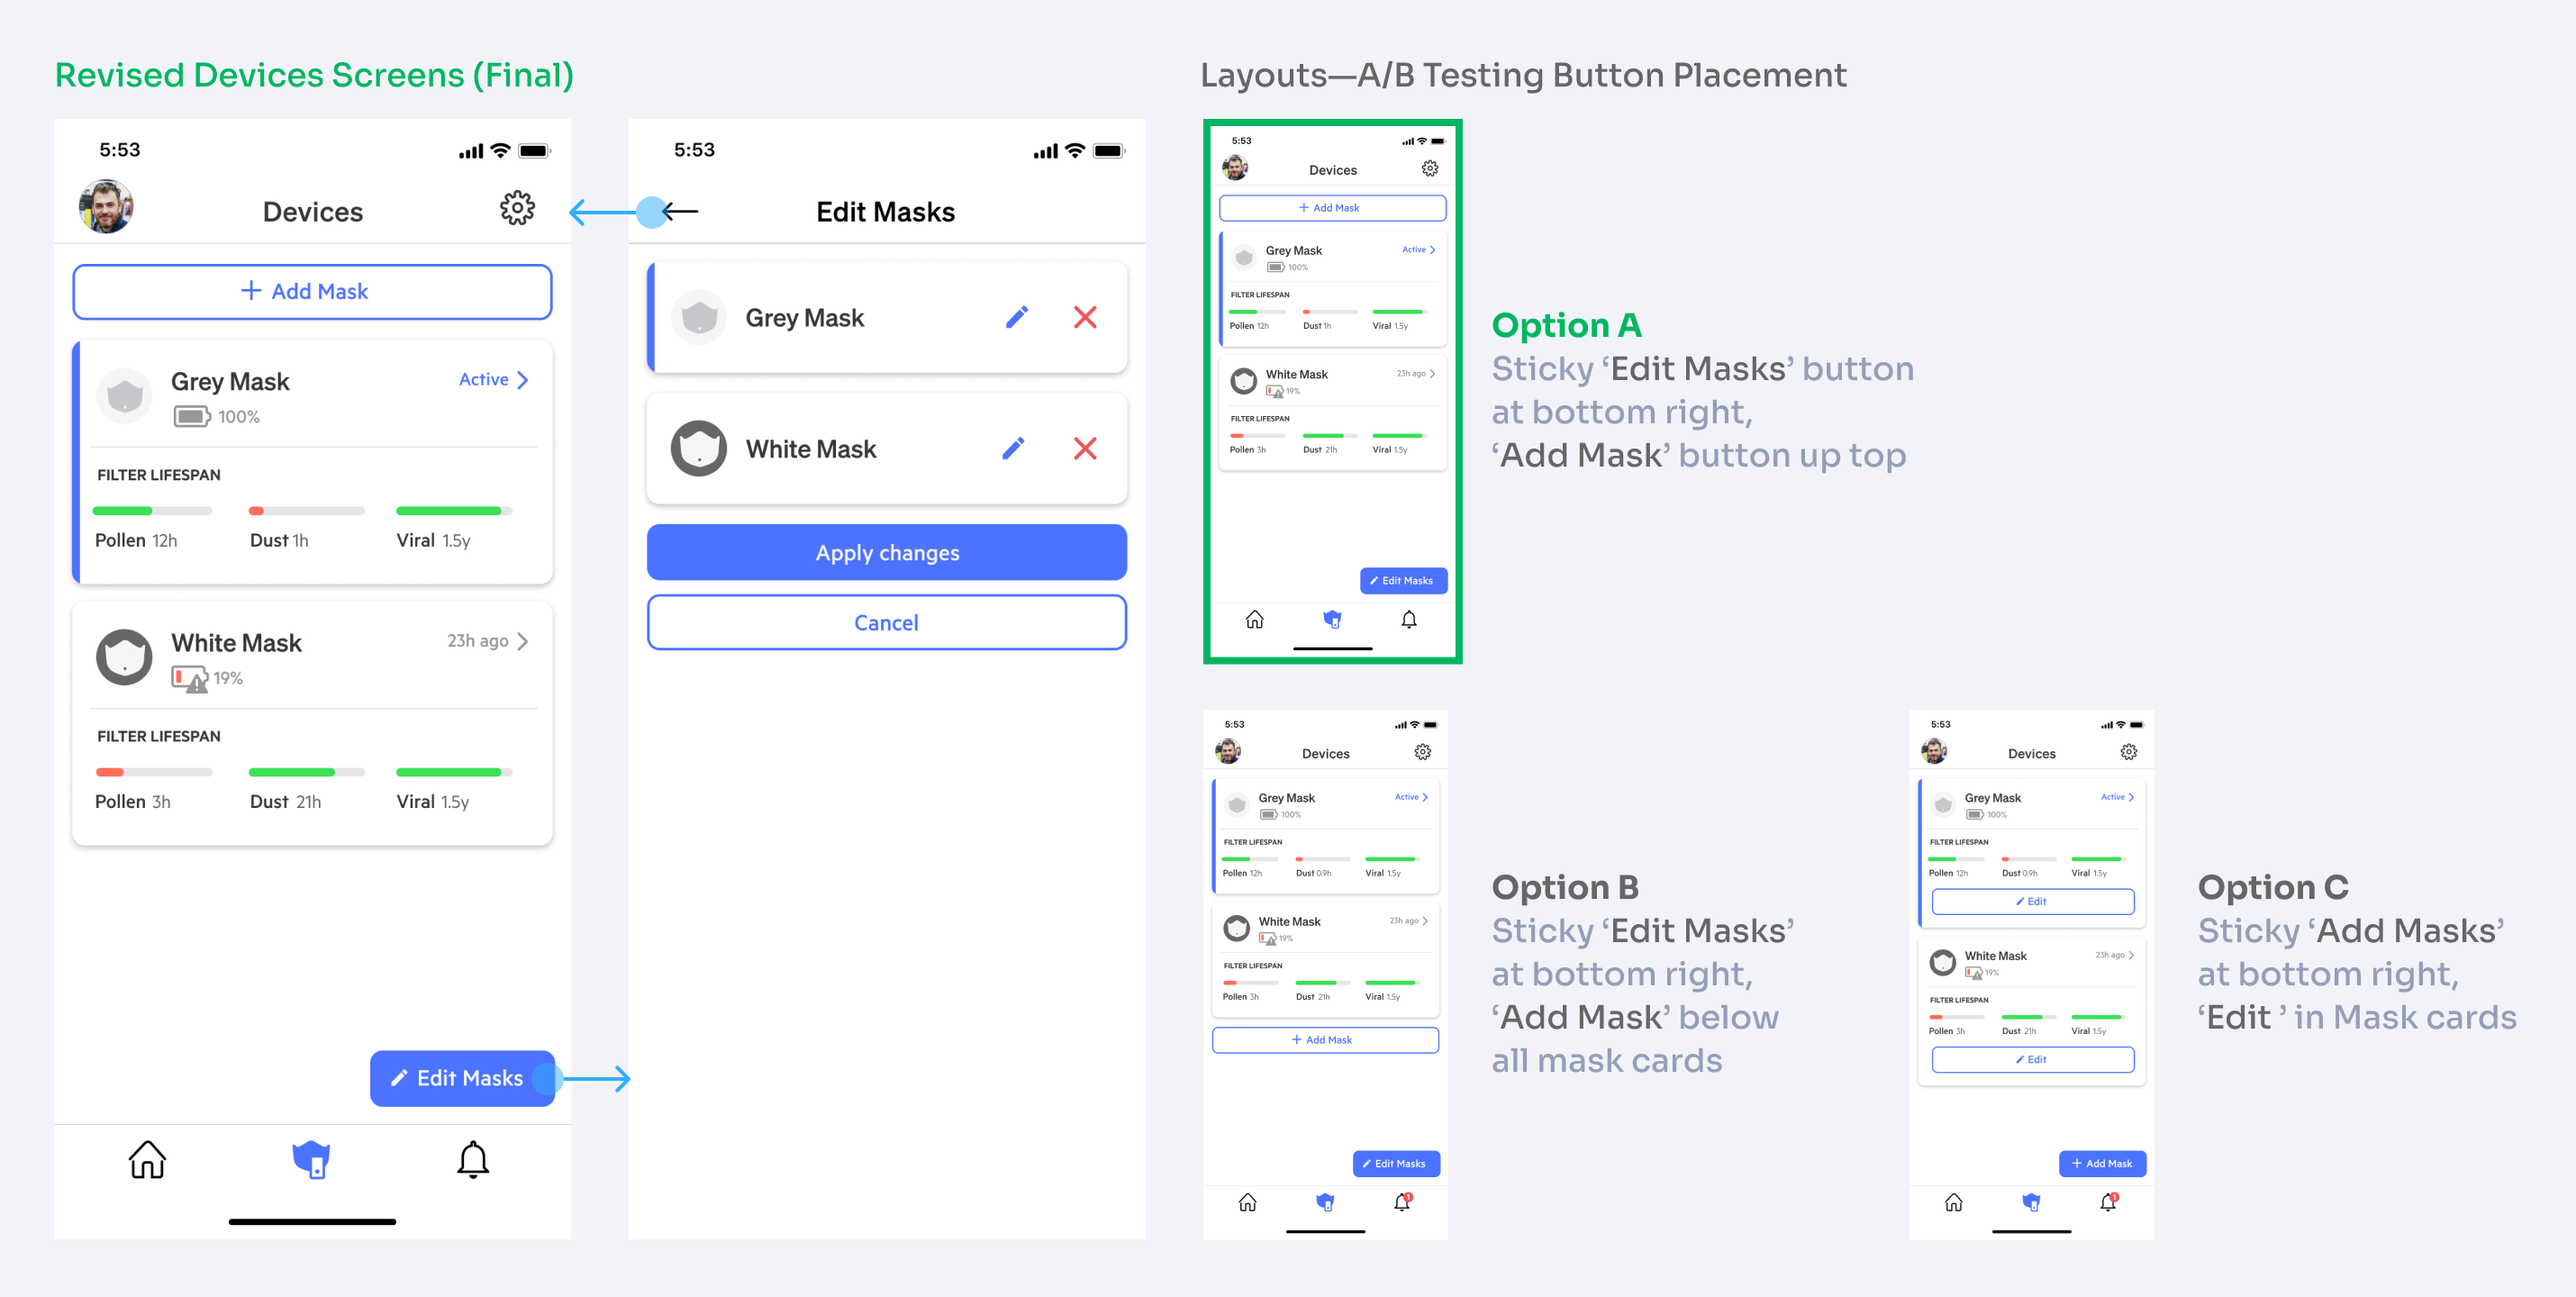
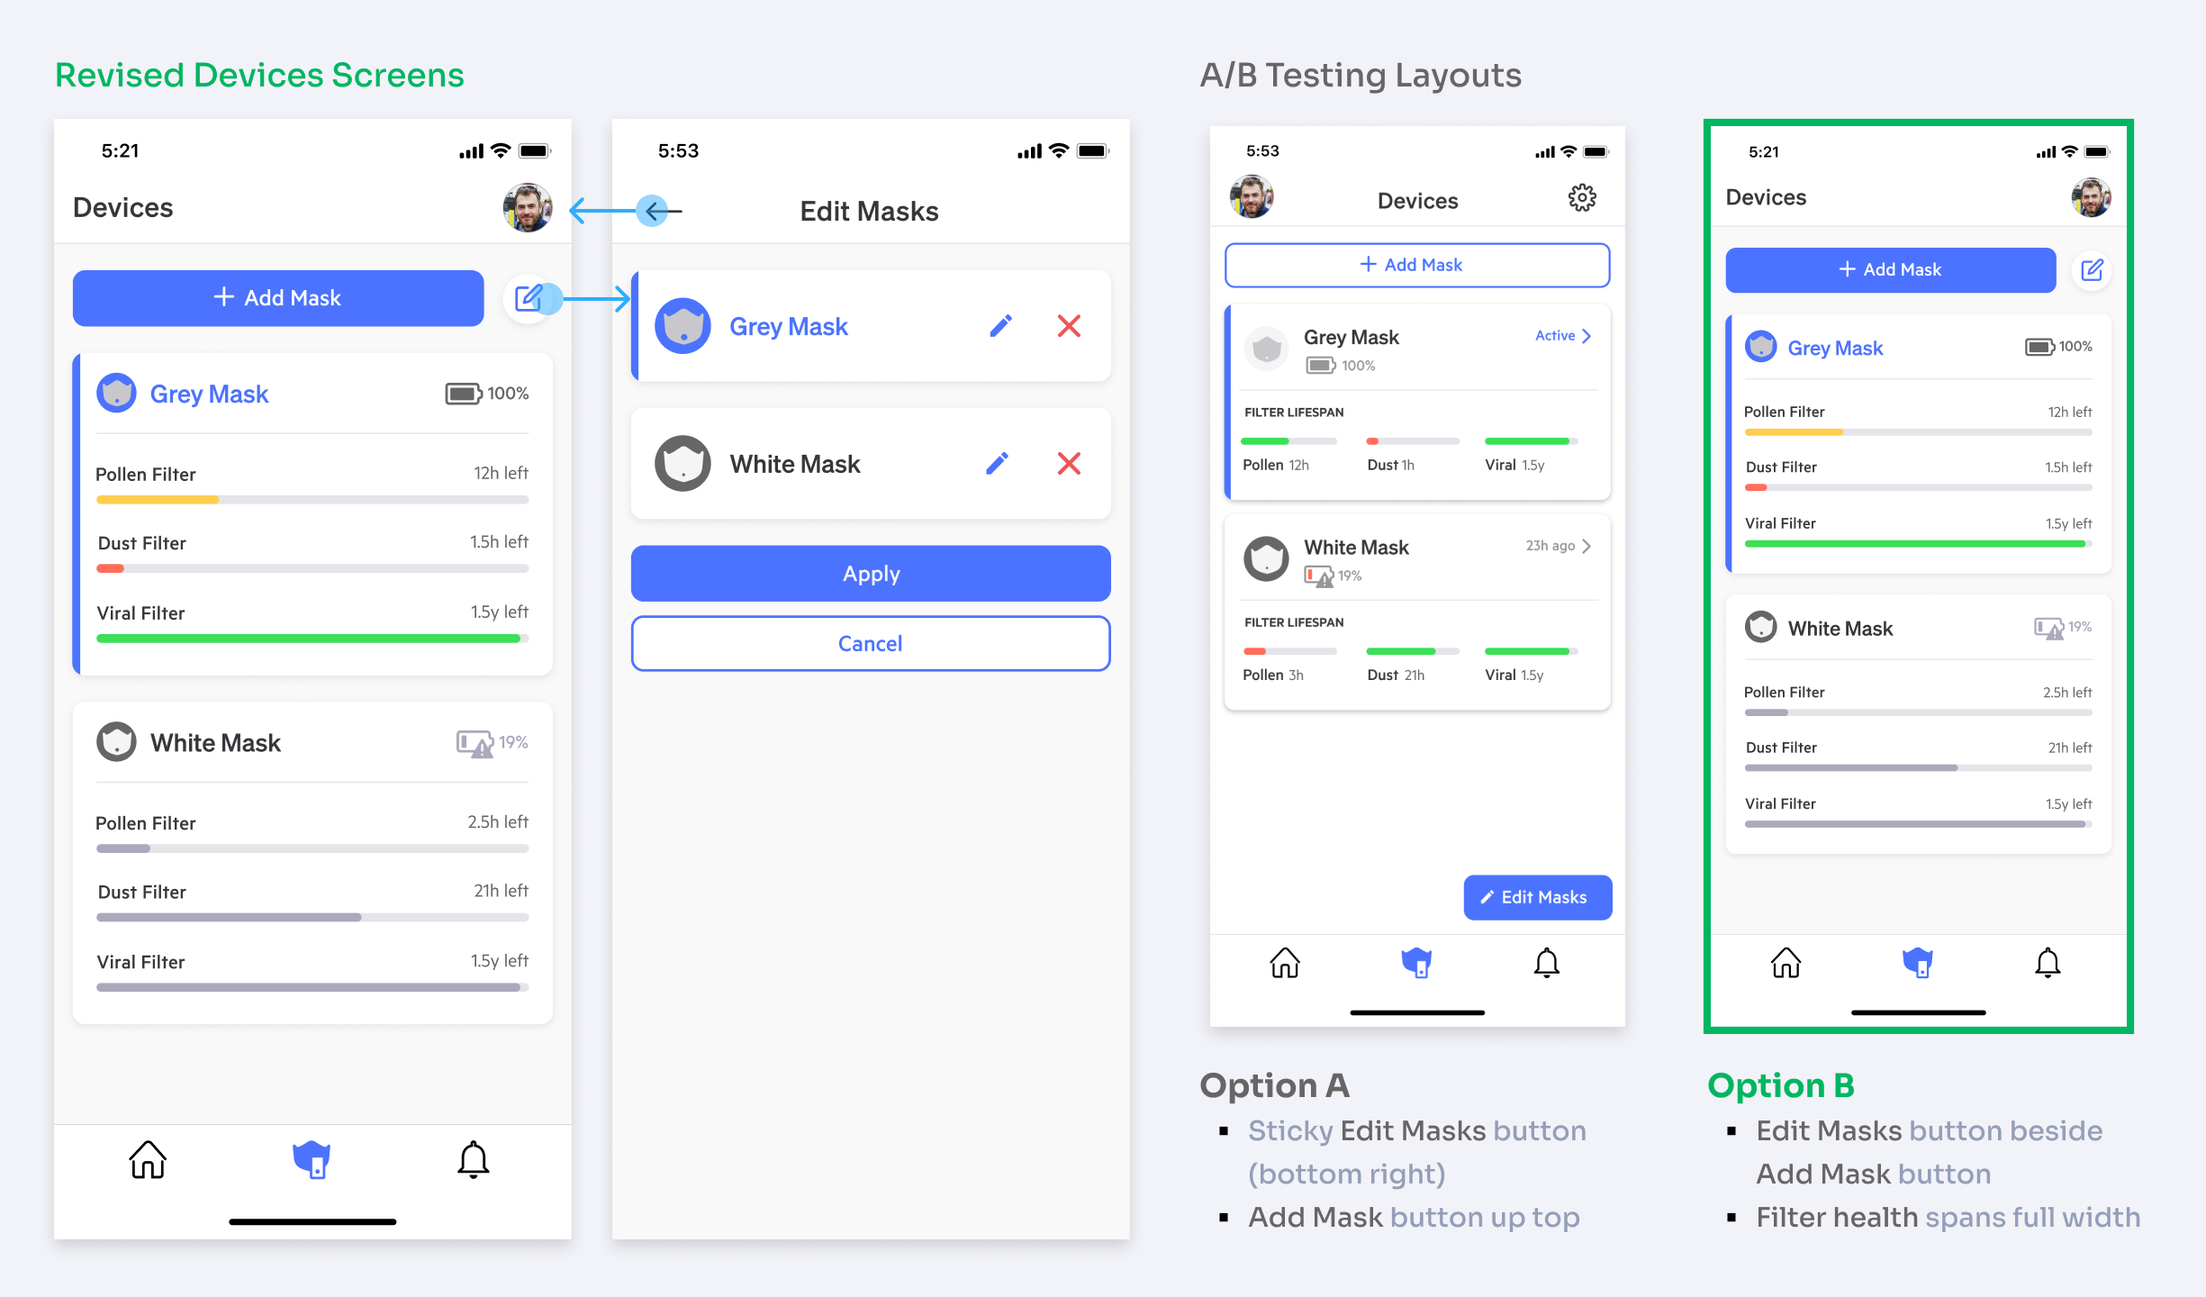
n3w

diff --git a/index.html b/index.html
@@ -166,26 +166,6 @@
             </a>
           </article>
 
-          <!-- Kumo Smart Mask -->
-          <article>
-            <a class="projectSingle" href="https://www.notion.so/Kumo-Smart-Mask-a6ab4a3a38184989886887746a99f04e"
-              target="_blank">
-              <img class="projectCover" src="./img/home-cover-Kumo-Mask.jpg" loading="lazy" alt="Kumo Smart Mask">
-              <div class="sec">
-                <h2 class="projectTitle">Kumo Smart Mask <span class="projectArrow">→</span></h2>
-                <p class="projectDescription">Reimagining a more inclusive mask experience</p>
-                <!-- <p class="awardText">
-                <img class="adobeIcon" src="./img/adobe.svg" loading="lazy" alt="Adobe">
-                Adobe Jam 1st Place
-              </p> -->
-                <div class="projectType-Group">
-                  <span class="projectType">Product Design</span>
-                  <span class="projectType">Industrial Design</span>
-                </div>
-              </div>
-            </a>
-          </article>
-
           <!-- Kumo Companion App -->
           <article>
             <a class="projectSingle" href="kumoApp2.html">
@@ -202,6 +182,26 @@
                   <span class="projectType">Research</span>
                   <span class="projectType">Prototyping</span>
                   <span class="projectType">Testing</span>
+                </div>
+              </div>
+            </a>
+          </article>
+
+          <!-- Kumo Smart Mask -->
+          <article>
+            <a class="projectSingle" href="https://www.notion.so/Kumo-Smart-Mask-a6ab4a3a38184989886887746a99f04e"
+              target="_blank">
+              <img class="projectCover" src="./img/home-cover-Kumo-Mask.jpg" loading="lazy" alt="Kumo Smart Mask">
+              <div class="sec">
+                <h2 class="projectTitle">Kumo Smart Mask <span class="projectArrow">→</span></h2>
+                <p class="projectDescription">Reimagining a more inclusive mask experience</p>
+                <!-- <p class="awardText">
+                <img class="adobeIcon" src="./img/adobe.svg" loading="lazy" alt="Adobe">
+                Adobe Jam 1st Place
+              </p> -->
+                <div class="projectType-Group">
+                  <span class="projectType">Product Design</span>
+                  <span class="projectType">Industrial Design</span>
                 </div>
               </div>
             </a>

diff --git a/kumoApp2.html b/kumoApp2.html
@@ -508,10 +508,9 @@
                 simplified
                 to 4 core
                 features:<br>
-                • <span class="bodyTypeBold">Home</span> (housing data reports of various types)<br>
-                • <span class="bodyTypeBold">Device management</span> (add, edit, delete, masks)<br>
+                • <span class="bodyTypeBold">Home</span> (housing various data types)<br>
+                • <span class="bodyTypeBold">Device management</span> (add, rename, delete masks)<br>
                 • <span class="bodyTypeBold">Notifications</span><br>
-                • <span class="bodyTypeBold">Settings</span><br>
               </p>
           </div>
           <img class="caseStudyImg" src="img/kumoApp/Kumo_Info Arch_Updated v3.png" loading="lazy"
@@ -569,11 +568,11 @@
               <p class="bodyType marginS--top">
                 <span class="bodyTypeBold">Action:</span> I added <span class="bodyTypeBold-Green">mask naming</span> to
                 the Onboarding flow. I also added an Edit
-                Masks button to the Devices screen—3 versions were made and A/B tested. <span
+                Masks button to the Devices screen—2 layouts were made and A/B tested. <span
                   class="bodyTypeBold-Green">Option
-                  A</span> was chosen because
-                the Edit Masks button would never conflict with the Add Mask button if there were more masks extending
-                past the scroll.
+                  B</span> was chosen because
+                users thought extending the health bars end to end across the full screen width made for an easier
+                viewing experience.
               </p>
             </div>
             <div>

diff --git a/fbintern.html b/fbintern.html
@@ -103,12 +103,13 @@
             <div class="caseStudyDetailsLeft">
               <h2 class="h2-caseStudy-DM">What Did I Work On?</h2>
               <p class="bodyType-DM">
-                Over the course of summer 2020, I designed a zero-to-one feature for Facebook’s Branded Content
-                products. At a high level, this project involved me scoping out a feasible solution for the summer, that
+                In summer 2020, I designed a 0-to-1 feature for Facebook’s Branded Content
+                products. This project involved me scoping out a feasible solution for the summer, that
                 was still capable of bringing value to the team roadmap in the future. Also apart of this experience was
                 heavy, cross-functional collaboration which situated me to seek alignment from teammates and partners in
                 the larger org, pursue breadth and depth in design explorations, and capitalize on the opportunity to
-                prototype and test my feature with real Facebook users. Reach out to me if you want to learn more about
+                prototype and test my feature with real Facebook users. Due to NDA, reach out to me if you want to learn
+                more about
                 my project!
               </p>
               <h3 class="h3-caseStudy-DM marginM--top">Objective</h3>

diff --git a/css/style.css b/css/style.css
@@ -537,7 +537,8 @@ a:hover {
     font-weight: 300;
     /* letter-spacing: 0.01em; */
     /* color: #444444; */
-    color: #6a6a6b;
+    /* color: #6a6a6b; */
+    color: #444444;
     margin-bottom: 1.2rem;
 }
 
@@ -554,9 +555,10 @@ a:hover {
 }
 
 .fbLinkHeader {
-    color: #4080FF;
+    /* color: #4080FF; */
     /* border-bottom: 0.125rem dotted; */
     border-bottom: 1.25px dashed;
+    color: #121212;
 }
 
 .socialHeader {
